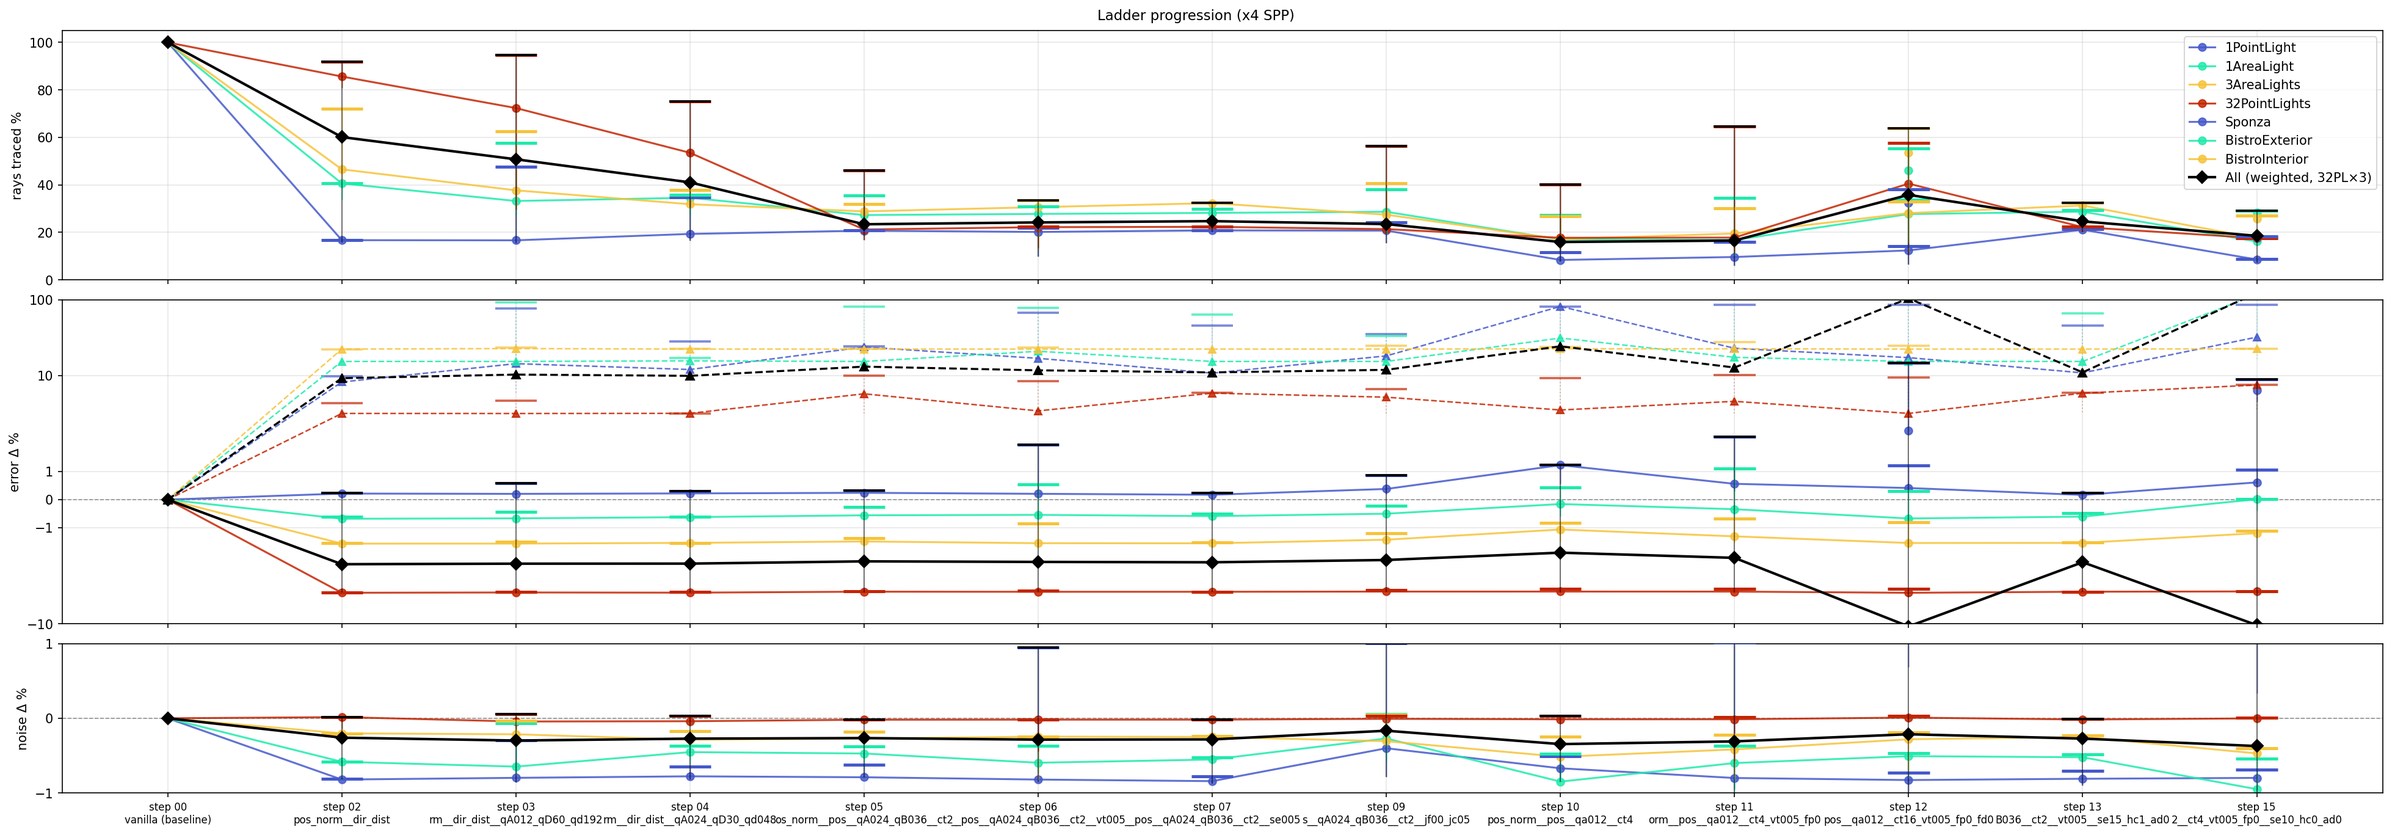
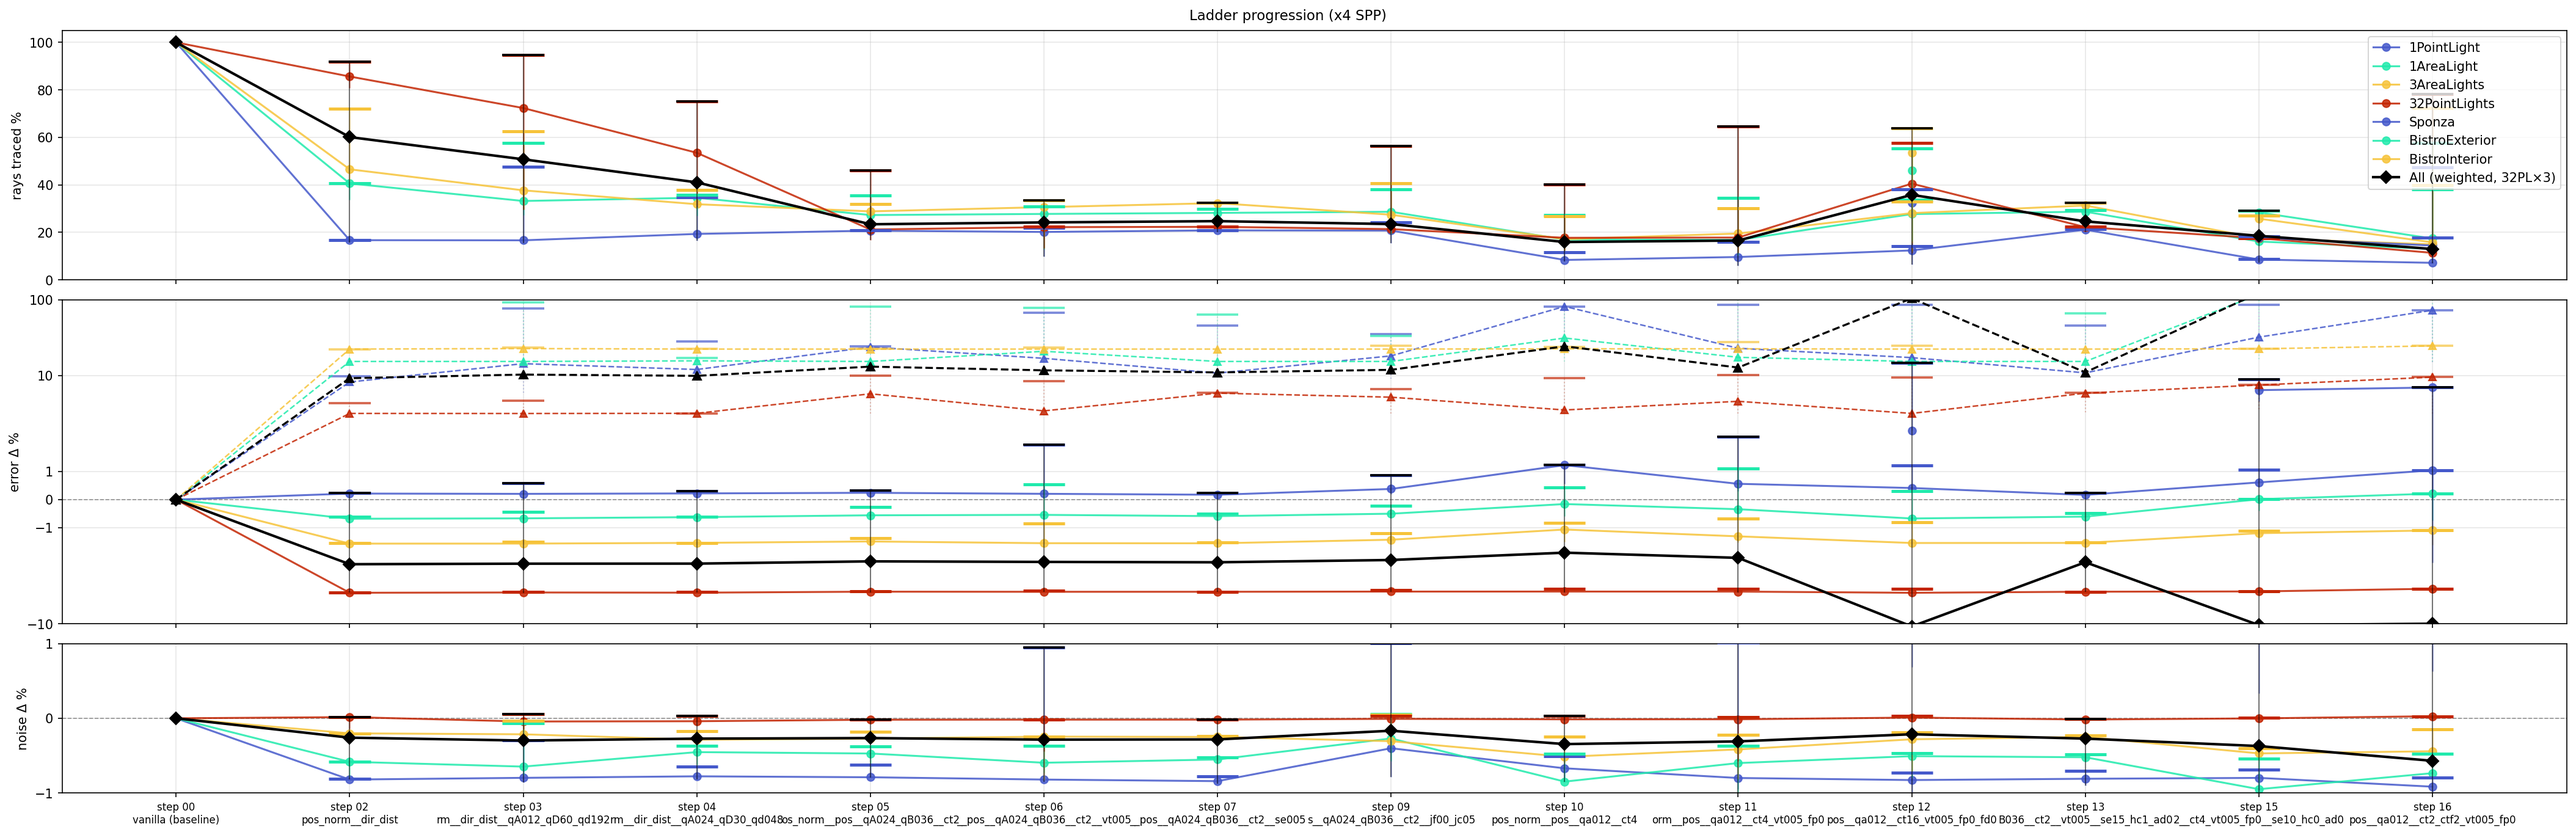
Step 16 per-level ct: negative result documented
Per-level ct (coarse high, fine low via bootThresholdFine) doesn't
cleanly resolve the Cornell/Bistro tradeoff. Two failure modes:

1. Non-monotonic mid-level regressions. (16,4) improves 1PL blob
   73→24 but regresses 1AL blob 21→112 — the lerped mid-level ct
   hits a "just-trusted-but-unreliable" regime on 1AL.

2. Fine ct doesn't recover Bistro rays. On dense scenes coarse
   cells mature fast, cascade stops at coarse level — fine ct
   relaxation never activates. (16,4) on BistroInterior traces 53%
   rays, same as uniform ct=16.

Only (64,4) defends all Cornell penumbra scenes (blob ≤25), at 78%
32PL rays (4× baseline). Not a carry improvement.

Infrastructure kept: bootThresholdFine shader param + ctf<N> tag
token. Remains a potential future lever if combined with insert-
side level skipping or hierarchical consistency. No carry; step-11
ct4_vt005_fp0 remains multi-level carry.

diff --git a/docs/devlog/DEVLOG.md b/docs/devlog/DEVLOG.md
@@ -31,6 +31,7 @@ Both row 1 col 3 : error Δ vs GT and row 1 col 9: noise Δ vs GT use the same c
 | 12   | ct × warmup × force-descend on step-11 carry (x1/x4/x16) | `ct16` + `w=2` cuts 1PL blob 2.4× (41→17) at 2.3× 32PL rays; x16 stress test shows blob still grows 2–5× with SPP (residual bias), force-descend & fp no-ops | `qa012__ct16_vt005_fp0_fd0` (w=2) |
 | 13   | stderr × hierarchical × accel-decay, single-level | **negative**: no variant strictly beats vt005; best-x4 se10+hc cuts 1PL x4 blob 17→10 but regresses x1 13→50 | no carry (keep step-06 vt005) |
 | 15   | stderr × hierarchical × accel-decay, multi-level + x16 | **negative** on Cornell; **big-scene supplement (Bistro/Sponza) shows viscache cuts mean GT-err 18–70% on Bistro** — first real-scene data, gate mechanisms near-irrelevant there | no carry (keep step-11 ct4_vt005_fp0) |
+| 16   | per-level ct (bootThreshold coarse, bootThresholdFine) | **negative**: asymmetric ct has non-monotonic mid-level regimes — (16,4) regresses 1AL 21→112; fine ct rarely consulted on dense Bistro so doesn't recover rays | no carry |
 
 ---
 
@@ -470,6 +471,35 @@ Every multi-level variant **regresses** 1PL x4 blob from 22.88 → 32+. At x16 S
 **Diagnosis.** The x16 pathology is sample *correlation*, not sample *paucity*. At x16 SPP each pixel fires 16 rays through slightly-jittered directions; all 16 land on the same side of a hard shadow penumbra from that pixel's perspective, yielding variance ≈ 0 and μ wrong in a direction that happens to match the local pixel. The stderr gate can't distinguish this from a genuine converged cell — `√(var/N) = 0/√16 = 0` is "infinite confidence". Hierarchical check can't either — finer levels see the same correlated samples. Accel decay can't either — incoming samples agree with the current wrong μ.
 
 **Carry: none** — step-11 `ct4_vt005_fp0` remains the active multi-level carry. Details and rationale in `captures/ladder/15/picks.json`.
+
+---
+
+## Step 16 — per-level ct (bootThresholdFine) — negative result
+
+**What it looks at.** Step 12's big-scene supplement showed ct has opposite optima: Cornell 1PL wants high ct (blob defense), Bistro wants low ct (rays savings). Per-level ct is the design response: coarse level high ct, fine level low ct — geometrically interpolated via new `bootThresholdFine` shader param. Default 0 = uniform legacy behaviour.
+
+Sweep 8 (coarse, fine) pairs on step-11 multi-level lineage: (2,2), (4,4), (8,4), (16,4), (16,2), (32,2), (32,4), (64,4). 8 variants × 2 SPP × 7 scenes = 112 runs.
+
+**Result — asymmetric ct has non-monotonic regressions.** x4 blob matrix (rays / blob):
+
+| (c,f) | 32PL | 1PL | 1AL | 3AL | BistroInt | BistroExt |
+|---|---:|---:|---:|---:|---:|---:|
+| (2,2) | 11/10 | 7/73 | 13/117 | 15/25 | 16/294 | 17/366 |
+| (4,4) | 18/4 | 7/73 | 17/**21** | 17/23 | 27/294 | 27/366 |
+| (16,4) | 40/3 | 11/**24** | 27/**112** | 28/22 | 53/294 | 48/366 |
+| (64,4) | 78/3 | 18/**15** | 38/**15** | 40/22 | 72/294 | 58/366 |
+
+**Key negative — (16,4) regresses 1AL from 21 to 112.** The mid-level ct interp `lerp(16, 4, t)` produces intermediate ct values at intermediate levels. On 1AL these mid-level cells hit exactly the "converged enough to trust but not enough for variance estimate" regime. Fine asymmetry is not a free monotonic knob.
+
+**Key negative — fine ct doesn't recover Bistro rays.** `(16,4)` on BistroInterior = 53% rays, same as uniform ct=16 (53%). The cascade matures at the coarse level on dense Bistro and never descends to the fine level — so `fine_ct=4` relaxation is unreachable.
+
+**Only `(64,4)` defends all Cornell penumbra scenes (blob ≤ 25)** — but at 78% 32PL rays (4× the step-11 baseline).
+
+**Why we narrow.** No carry — step-11 `qa012__ct4_vt005_fp0` remains the multi-level carry. Per-level ct infrastructure (new `bootThresholdFine` shader param) stays in place — might be useful as a future lever if paired with hierarchical consistency checking or insert-side level skipping. Details in `captures/ladder/16/picks.json`.
+
+![](step16/overview_summary_16.png)
+
+---
 
 **Next frontier** (in `memory/project_cell_mean_defenses.md`): correlation-specific defenses — per-cell writer-source diversity tracking (refuse trust if too few distinct pixels have contributed) or split-halves agreement (two independent accumulators per cell, trust iff their μ's agree).
 
